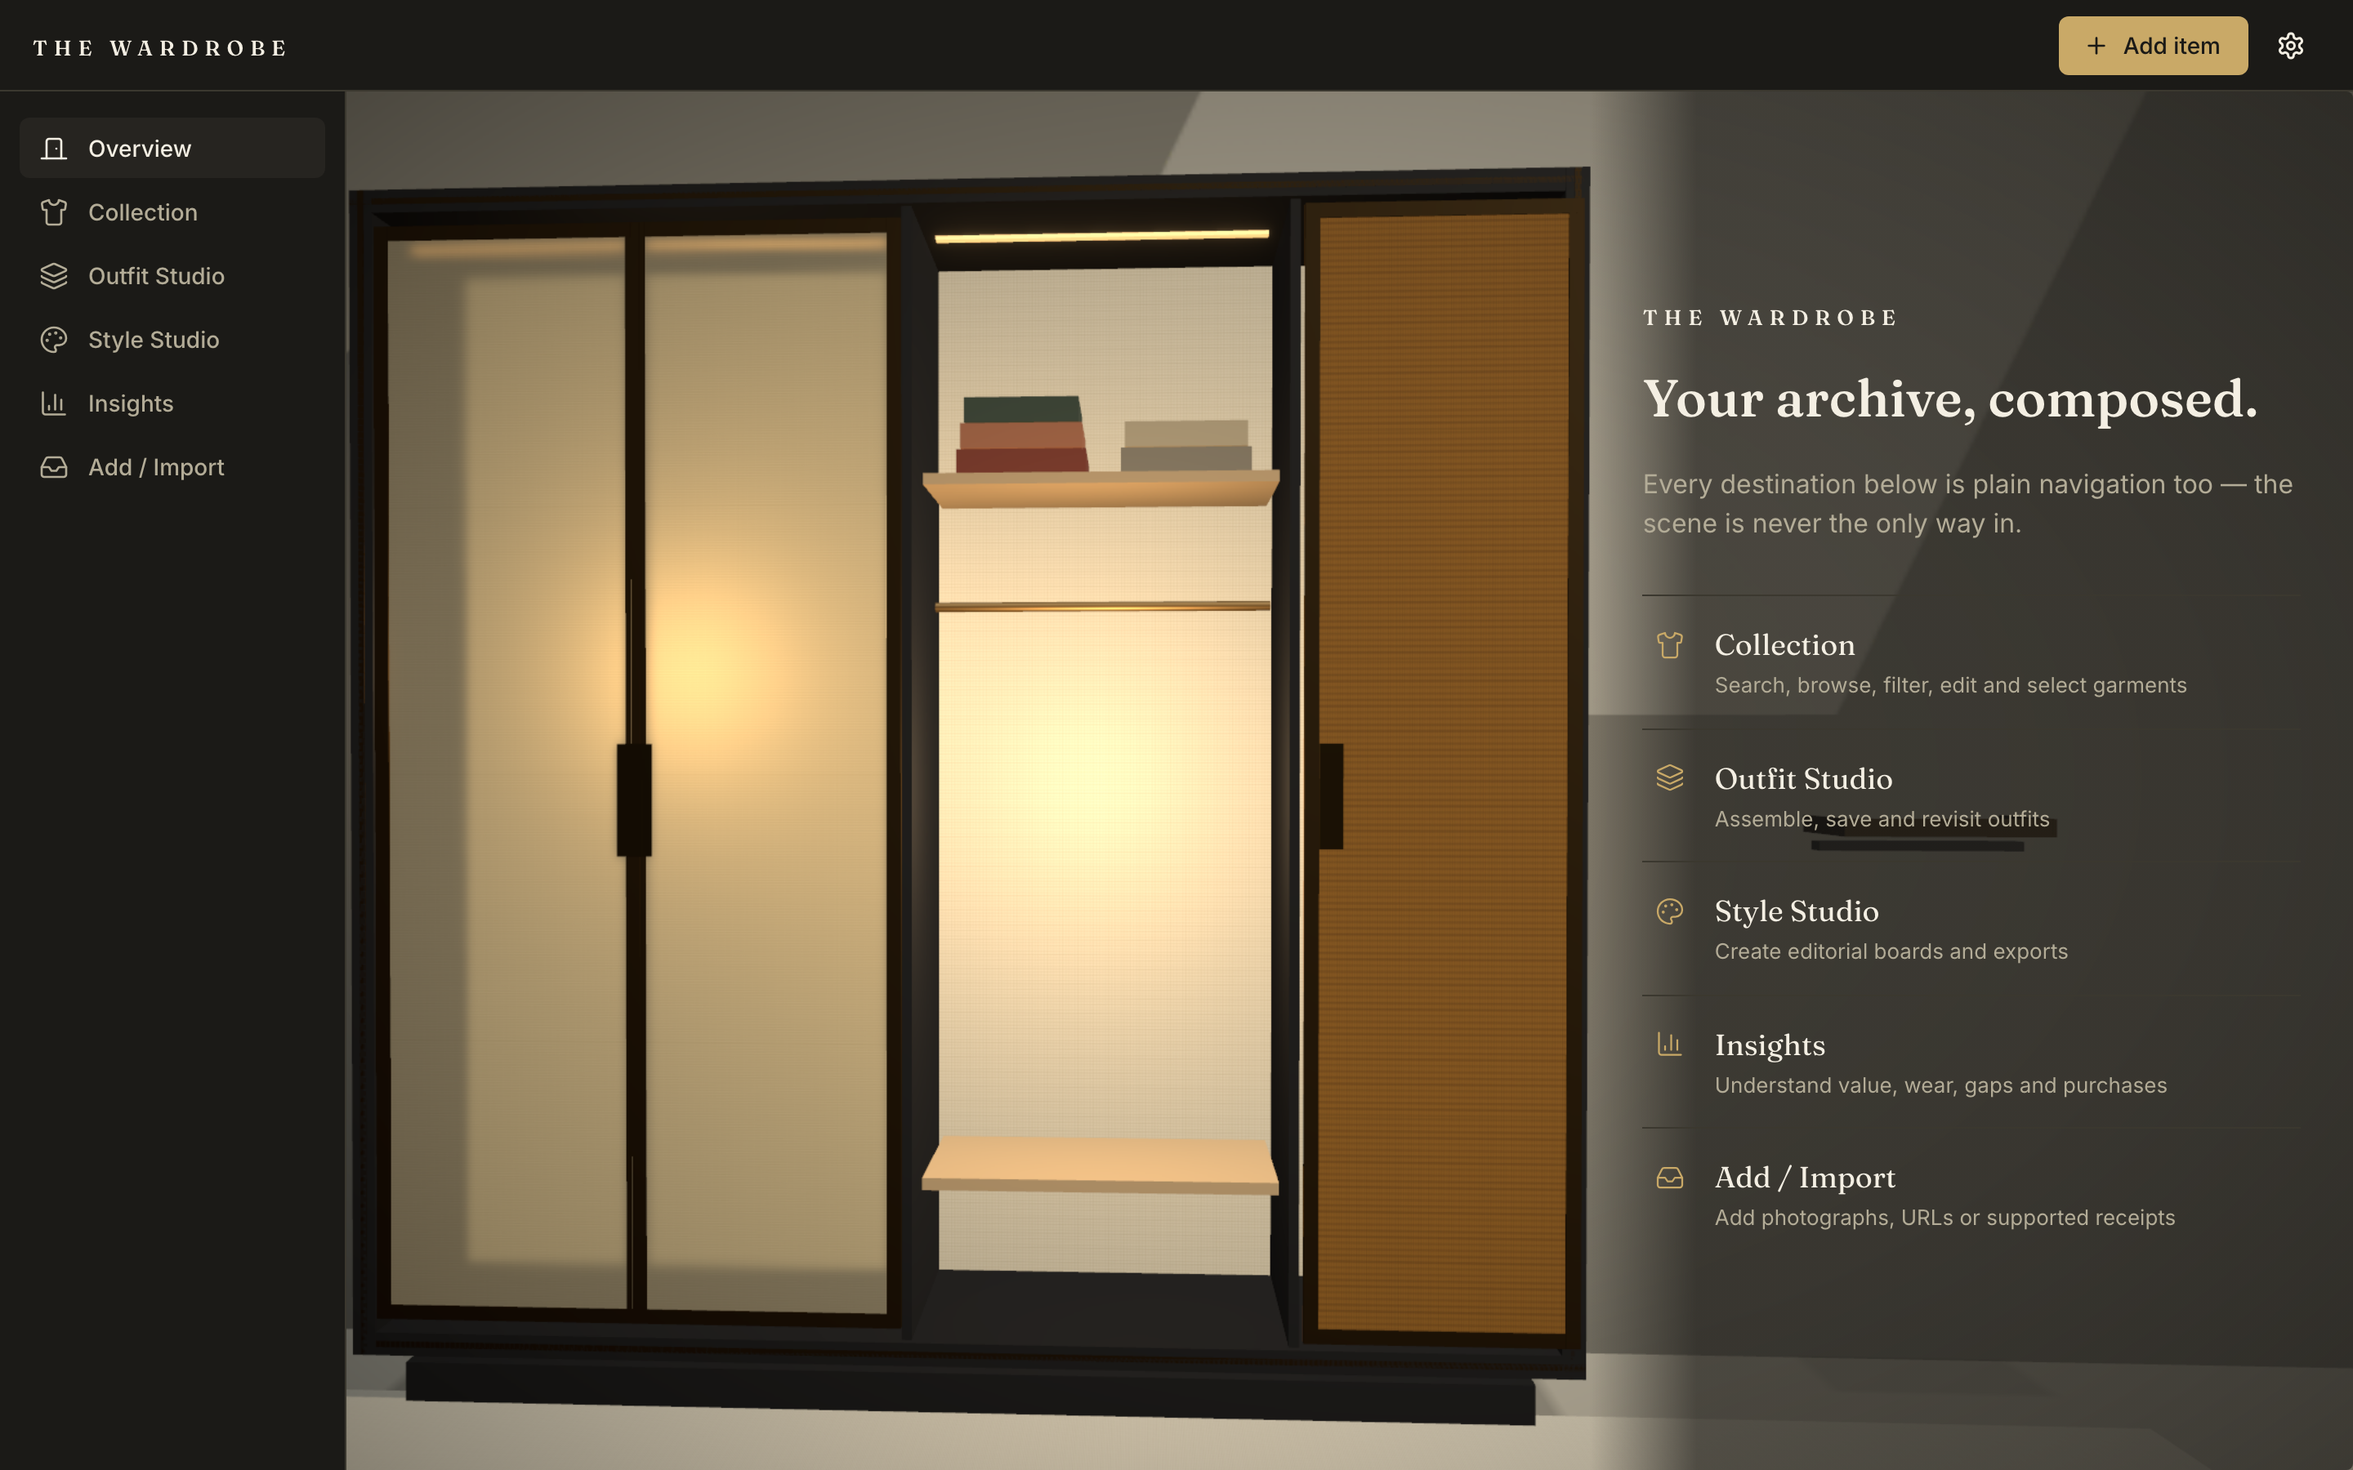
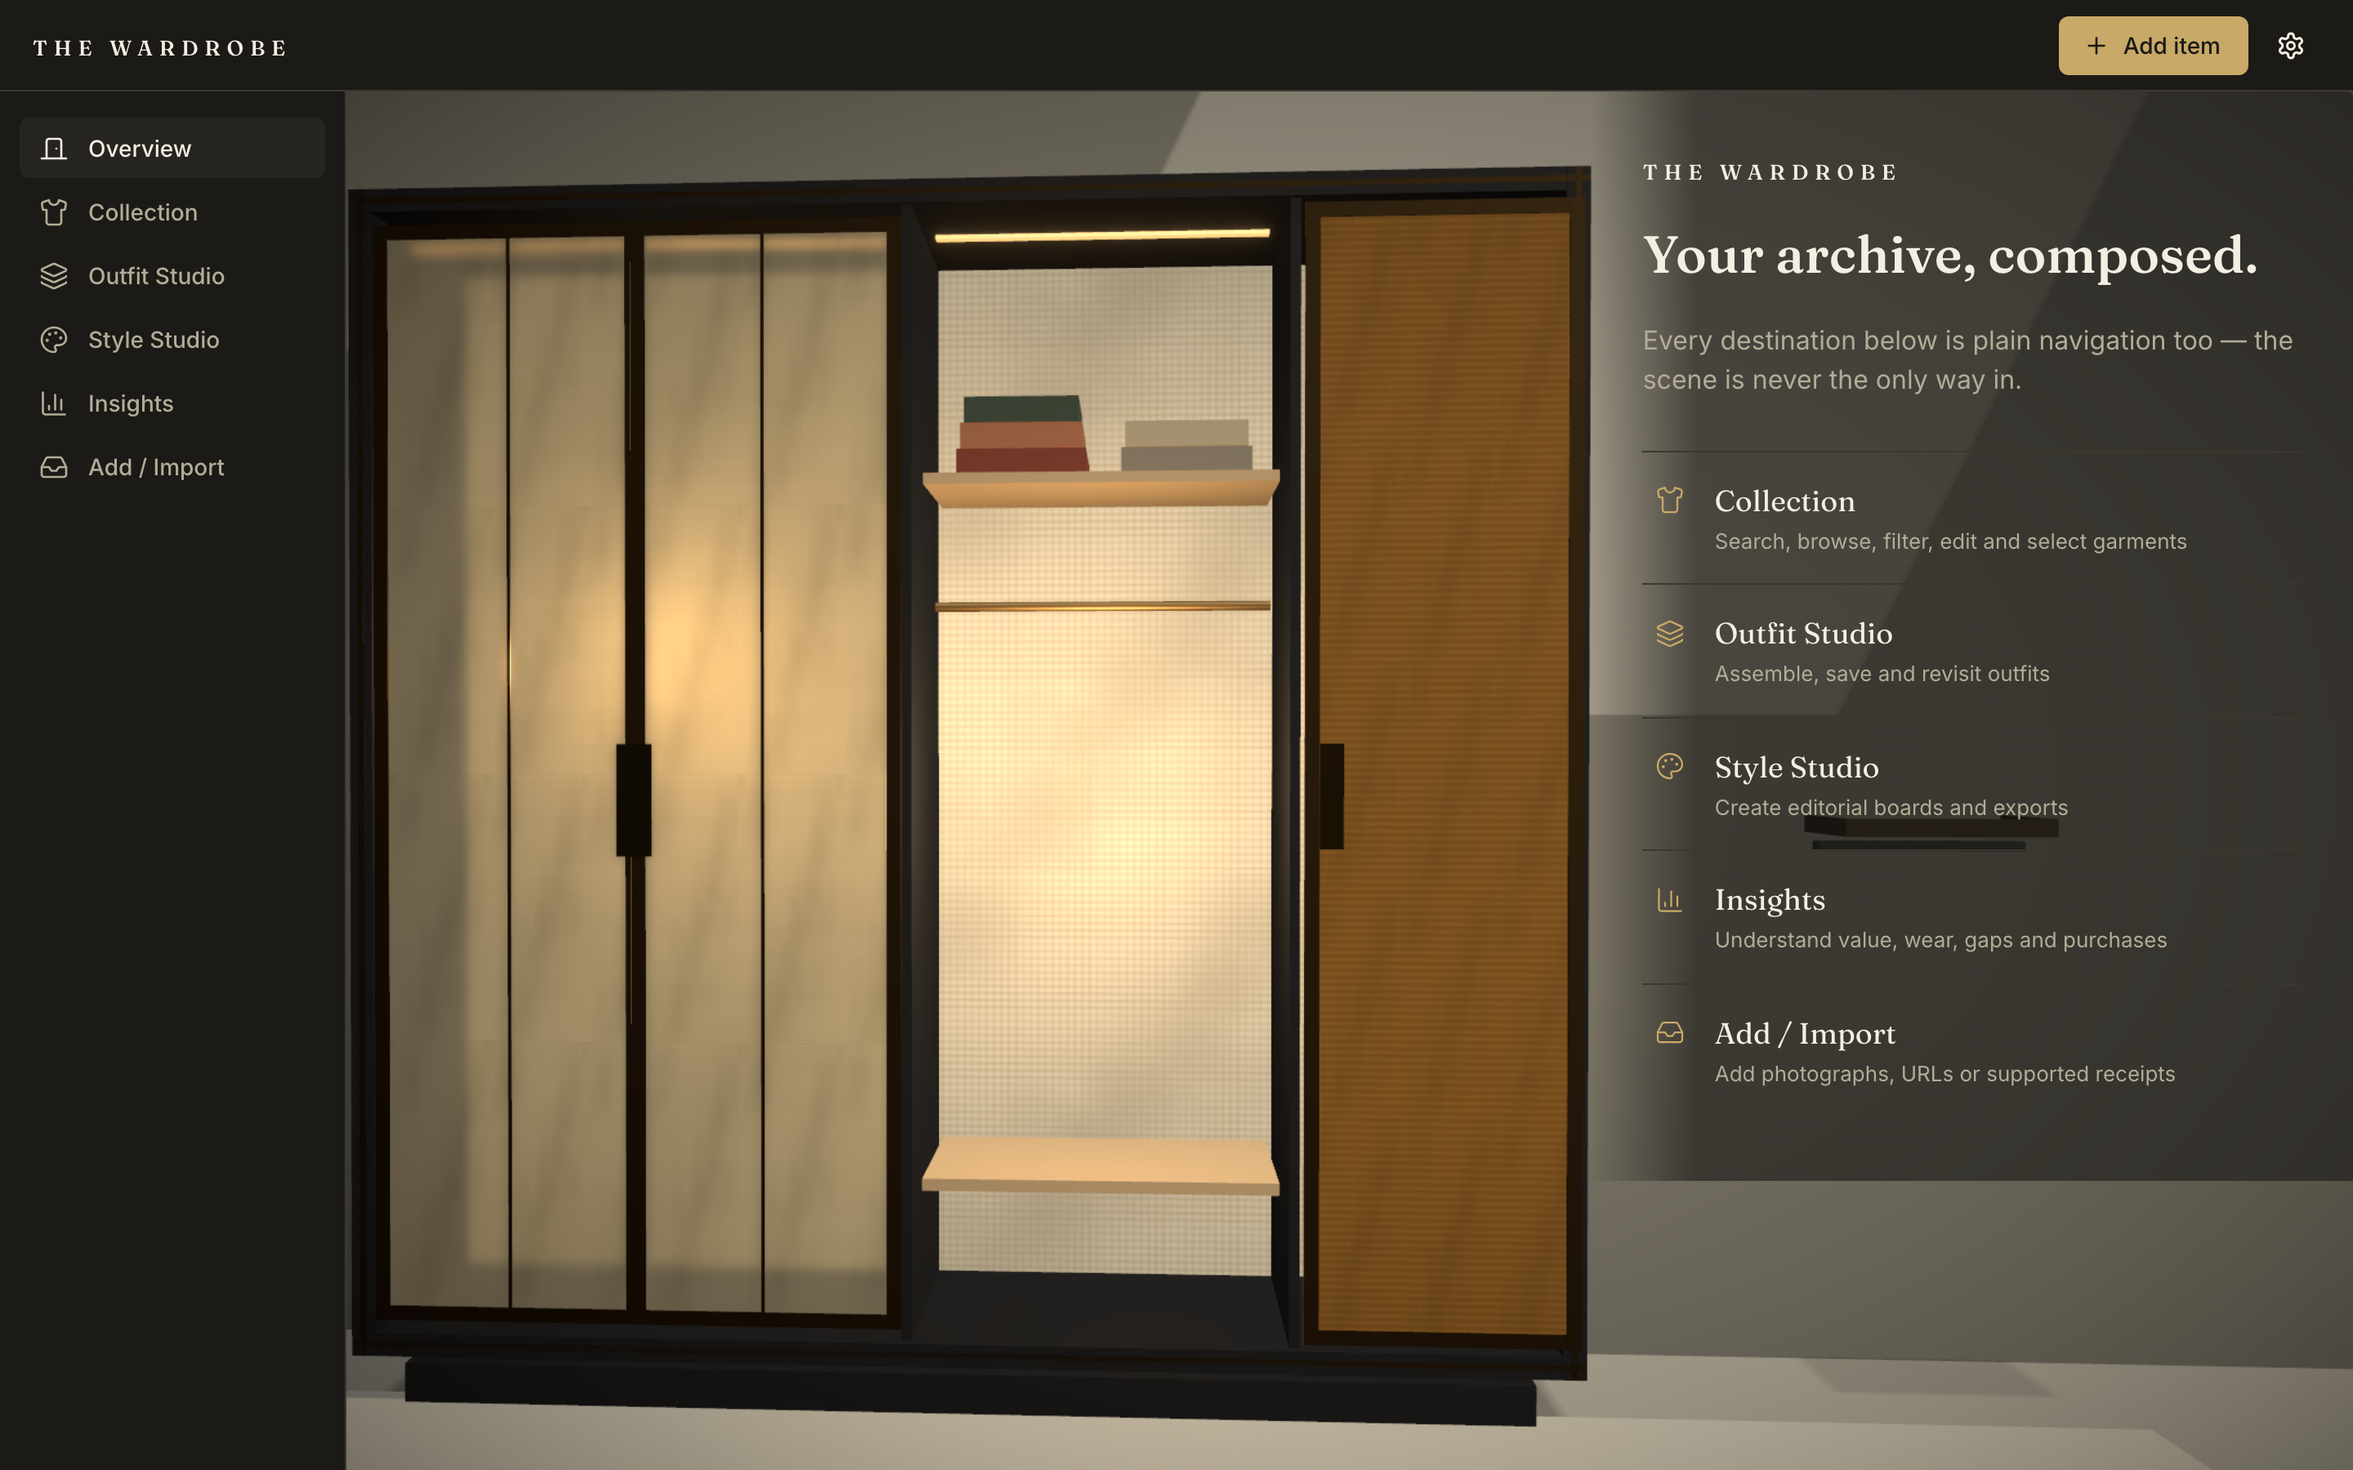
style(revamp): look + motion pass — richer weaves, readable beats, poppier arrivals
Look: two-scale mottled linen (large fields never read flat), true woven
cane with shadowed holes, coarser bay lining, real deep-shadow ceiling
band above the lantern (both references have it), brighter pull plates
and mirror, stronger contact shadow, bloom 0.45 @ 0.9 with deeper
vignette; leaf mid-seam bead matches the reference's two-panel leaves

Motion: entry beats now read as choreography — glow blooms first, linen
leaf slides with a confident 5% settle, cane follows on its own beat
(0.32 s); camera overshoot 2% → 2.8% and snappier dolly (1.0 s);
garments get a staggered decaying brush as the camera arrives; 2D
workspaces glide in with a 340 ms settle keyed to route changes (dead
under reduced motion)

Infra: e2e suites set wardrobe:scene-off (DEV-only escape in SceneMount)
— functional tests assert DOM, not pixels; rendering the transmission
scene in four parallel browsers starved the machine (15/15 now in 30 s)

diff --git a/src/revamp/scene/lantern/materials.ts b/src/revamp/scene/lantern/materials.ts
@@ -9,7 +9,7 @@ import { useScene } from '../../stores/scene'
  * transmission for an emissive fake at the same read.
  */
 
-function weaveCanvas(base: string, thread: string, cell = 6, jitter = 10): THREE.CanvasTexture {
+function weaveCanvas(base: string, thread: string, cell = 6, jitter = 10, mottle = 0): THREE.CanvasTexture {
   const size = 512
   const canvas = document.createElement('canvas')
   canvas.width = size
@@ -17,14 +17,40 @@ function weaveCanvas(base: string, thread: string, cell = 6, jitter = 10): THREE
   const ctx = canvas.getContext('2d')!
   ctx.fillStyle = base
   ctx.fillRect(0, 0, size, size)
+  // low-frequency mottling so large fields never read flat
+  if (mottle > 0) {
+    for (let i = 0; i < 26; i++) {
+      const cx = ((i * 7919) % size)
+      const cy = ((i * 104729) % size)
+      const r = 60 + ((i * 31) % 90)
+      const g = ctx.createRadialGradient(cx, cy, 0, cx, cy, r)
+      const dark = i % 2 === 0
+      g.addColorStop(0, dark ? `rgba(70,60,40,${mottle})` : `rgba(255,250,235,${mottle})`)
+      g.addColorStop(1, 'rgba(0,0,0,0)')
+      ctx.fillStyle = g
+      ctx.fillRect(0, 0, size, size)
+    }
+  }
   ctx.fillStyle = thread
   for (let y = 0; y < size; y += cell) {
-    ctx.globalAlpha = 0.22 + (((y * 7919) % jitter) / jitter) * 0.18
-    ctx.fillRect(0, y, size, Math.max(1, cell * 0.4))
+    ctx.globalAlpha = 0.26 + (((y * 7919) % jitter) / jitter) * 0.2
+    ctx.fillRect(0, y, size, Math.max(1, cell * 0.42))
   }
   for (let x = 0; x < size; x += cell) {
-    ctx.globalAlpha = 0.16 + (((x * 104729) % jitter) / jitter) * 0.14
-    ctx.fillRect(x, 0, Math.max(1, cell * 0.4), size)
+    ctx.globalAlpha = 0.2 + (((x * 104729) % jitter) / jitter) * 0.16
+    ctx.fillRect(x, 0, Math.max(1, cell * 0.42), size)
+  }
+  // woven cane reads as a grid of shadowed holes
+  if (cell >= 12) {
+    ctx.globalAlpha = 0.5
+    ctx.fillStyle = 'rgba(40,28,10,0.55)'
+    for (let y = cell / 2; y < size; y += cell) {
+      for (let x = cell / 2; x < size; x += cell) {
+        ctx.beginPath()
+        ctx.arc(x, y, cell * 0.16, 0, Math.PI * 2)
+        ctx.fill()
+      }
+    }
   }
   ctx.globalAlpha = 1
   const tex = new THREE.CanvasTexture(canvas)
@@ -37,12 +63,12 @@ function weaveCanvas(base: string, thread: string, cell = 6, jitter = 10): THREE
 export function useLanternMaterials() {
   const quality = useScene((s) => s.quality)
   return useMemo(() => {
-    const linenTex = weaveCanvas('#efe7d3', '#c9bfa4', 5)
+    const linenTex = weaveCanvas('#efe7d3', '#c9bfa4', 5, 10, 0.05)
     linenTex.repeat.set(2.5, 4)
-    const caneTex = weaveCanvas('#cfa963', '#7e6330', 14, 8)
+    const caneTex = weaveCanvas('#d4ad64', '#7e6330', 16, 8, 0.04)
     caneTex.repeat.set(3, 5)
-    const wallLinenTex = weaveCanvas('#e6dec9', '#c4b99c', 6)
-    wallLinenTex.repeat.set(4, 4)
+    const wallLinenTex = weaveCanvas('#e8dfc9', '#bfb294', 9, 10, 0.06)
+    wallLinenTex.repeat.set(2.5, 2.5)
     const rugTex = weaveCanvas('#d6d1c2', '#b5ae9a', 4)
     rugTex.repeat.set(10, 6)
 
@@ -81,10 +107,10 @@ export function useLanternMaterials() {
         envMapIntensity: 1.4,
       }),
       pull: new THREE.MeshPhysicalMaterial({
-        color: '#d8bd84',
+        color: '#e2ca92',
         metalness: 1,
-        roughness: 0.18,
-        envMapIntensity: 2.6,
+        roughness: 0.14,
+        envMapIntensity: 3.2,
       }),
       brassBright: new THREE.MeshPhysicalMaterial({
         color: '#c9a967',
@@ -94,7 +120,7 @@ export function useLanternMaterials() {
       }),
       oak: new THREE.MeshStandardMaterial({ color: '#c9ab81', roughness: 0.85, envMapIntensity: 0.4 }),
       felt: new THREE.MeshStandardMaterial({ color: '#2e4636', roughness: 0.98 }),
-      mirror: new THREE.MeshPhysicalMaterial({ color: '#c3c9cd', metalness: 1, roughness: 0.04, envMapIntensity: 2.4 }),
+      mirror: new THREE.MeshPhysicalMaterial({ color: '#d6dde2', metalness: 1, roughness: 0.03, envMapIntensity: 3.0 }),
       glowStrip: new THREE.MeshStandardMaterial({ color: '#ffe2b0', emissive: '#ffc478', emissiveIntensity: 1.1 }),
       floor: new THREE.MeshStandardMaterial({ color: '#b3aea0', roughness: 0.9 }),
       wall: new THREE.MeshStandardMaterial({ color: '#8a887f', roughness: 0.96 }),

diff --git a/src/revamp/scene/lantern/Lantern.tsx b/src/revamp/scene/lantern/Lantern.tsx
@@ -36,7 +36,7 @@ export function Lantern() {
       if (s.fullMotion) {
         const kR = clamp01((t - s.tDoors) / LAN.doorDur)
         if (rightLeaf.current) {
-          rightLeaf.current.position.x = MOD.aRight - 0.01 - settle(kR, 0.02) * LAN.doorSlide
+          rightLeaf.current.position.x = MOD.aRight - 0.01 - settle(kR, 0.05) * LAN.doorSlide
           // the moving leaf rides just proud of the static one
           rightLeaf.current.position.z = FRONT_Z - 0.02 + easeCamera(clamp01(kR * 3)) * 0.02
         }
@@ -115,6 +115,10 @@ export function Lantern() {
         {/* the glowing linen field */}
         <mesh material={m.linenPanel} position={[cx, 0, 0]}>
           <boxGeometry args={[leafW - fr * 2, panelH - fr * 2, 0.012]} />
+        </mesh>
+        {/* mid seam — each leaf reads as two woven panels like the reference */}
+        <mesh material={m.brass} position={[cx, 0, 0.004]}>
+          <boxGeometry args={[0.006, panelH - fr * 2, 0.014]} />
         </mesh>
         {/* pull plate at the meeting stile */}
         <mesh material={m.pull} position={[(leafW - fr) * dir, -0.05, 0.02]}>

diff --git a/src/revamp/scene/garments/RailGarments.tsx b/src/revamp/scene/garments/RailGarments.tsx
@@ -24,8 +24,18 @@ function GarmentPlane({ url, x, phase }: { url: string; x: number; phase: number
   useFrame(() => {
     if (!swing.current) return
     const s = useScene.getState()
+    if (!s.fullMotion) {
+      swing.current.rotation.z = 0
+      return
+    }
     const t = performance.now() / 1000
-    swing.current.rotation.z = s.fullMotion ? Math.sin((t * Math.PI * 2) / 5.2 + phase) * 0.014 : 0
+    // idle sway + a staggered, decaying brush as the camera arrives — the
+    // wardrobe acknowledges you (poppy, never restless)
+    const idle = Math.sin((t * Math.PI * 2) / 5.2 + phase) * 0.014
+    const since = t - s.tStation - phase * 0.06
+    const impulse =
+      since > 0 && since < 2.4 ? Math.exp(-since * 2.2) * Math.sin(since * 9 + phase) * 0.05 : 0
+    swing.current.rotation.z = idle + impulse
   })
 
   return (

diff --git a/src/revamp/scene/Experience.tsx b/src/revamp/scene/Experience.tsx
@@ -49,13 +49,13 @@ export function Experience() {
       </Suspense>
       <RailGarments />
 
-      <ContactShadows position={[0, 0.004, 1.1]} opacity={0.38} blur={2.6} scale={8} frames={40} resolution={256} far={2.2} />
+      <ContactShadows position={[0, 0.004, 1.1]} opacity={0.48} blur={2.6} scale={8} frames={40} resolution={256} far={2.2} />
       <CameraRig />
 
       {quality !== 'reduced' && (
         <EffectComposer multisampling={2}>
-          <Bloom intensity={0.32} luminanceThreshold={0.92} luminanceSmoothing={0.25} mipmapBlur />
-          <Vignette eskil={false} offset={0.18} darkness={0.55} />
+          <Bloom intensity={0.45} luminanceThreshold={0.9} luminanceSmoothing={0.22} mipmapBlur />
+          <Vignette eskil={false} offset={0.16} darkness={0.62} />
         </EffectComposer>
       )}
     </>

diff --git a/src/revamp/scene/stations.ts b/src/revamp/scene/stations.ts
@@ -66,10 +66,10 @@ export function transitionFor(from: StationId, to: StationId): TransitionSpec {
   const fromDoor = STATIONS[from].onDoor
   const toDoor = STATIONS[to].onDoor
   if (fromDoor && toDoor) return { move: 'arc', dur: 1.35, delay: 0 }
-  if (fromDoor || toDoor) return { move: 'arc', dur: 1.2, delay: 0 }
+  if (fromDoor || toDoor) return { move: 'arc', dur: 1.15, delay: 0 }
   if (to === 'import' || from === 'import') return { move: 'pedestal', dur: 0.95, delay: 0 }
   if (to === 'overview' || from === 'overview') return { move: 'pull', dur: 1.3, delay: 0 }
-  return { move: 'dolly', dur: 1.1, delay: 0 }
+  return { move: 'dolly', dur: 1.0, delay: 0 }
 }
 
 /** Fraction of the content area the scene composes for when the workspace is open. */

diff --git a/src/revamp/scene/SceneMount.tsx b/src/revamp/scene/SceneMount.tsx
@@ -6,6 +6,9 @@ const SceneCanvas = lazy(() => import('./SceneCanvas'))
 
 function webglSupported(): boolean {
   if (new URLSearchParams(window.location.search).get('scene') === 'off') return false
+  // e2e opt-out: functional suites assert DOM, not pixels — rendering the
+  // transmission scene in four parallel browsers starves the test machine
+  if (import.meta.env.DEV && sessionStorage.getItem('wardrobe:scene-off') === '1') return false
   try {
     const canvas = document.createElement('canvas')
     return !!(canvas.getContext('webgl2') ?? canvas.getContext('webgl'))

diff --git a/tests/e2e/revamp.settings.spec.ts b/tests/e2e/revamp.settings.spec.ts
@@ -3,7 +3,11 @@ import { expect, test } from '@playwright/test'
 /** Phase 9: profile persistence, data export, sign-out. */
 
 test.beforeEach(async ({ context }) => {
-  await context.addInitScript(() => sessionStorage.setItem('wardrobe:revamp', '1'))
+  await context.addInitScript(() => {
+    sessionStorage.setItem('wardrobe:revamp', '1')
+    // functional suite: skip 3D rendering (DOM assertions only)
+    sessionStorage.setItem('wardrobe:scene-off', '1')
+  })
 })
 
 test('settings: profile saves and persists, export downloads, sign-out guards', async ({ page }) => {

diff --git a/tests/e2e/revamp.studios.spec.ts b/tests/e2e/revamp.studios.spec.ts
@@ -3,7 +3,11 @@ import { expect, test, type Page } from '@playwright/test'
 /** Phases 6 + 8: outfit persistence, duplication, wear logging, honest insights. */
 
 test.beforeEach(async ({ context }) => {
-  await context.addInitScript(() => sessionStorage.setItem('wardrobe:revamp', '1'))
+  await context.addInitScript(() => {
+    sessionStorage.setItem('wardrobe:revamp', '1')
+    // functional suite: skip 3D rendering (DOM assertions only)
+    sessionStorage.setItem('wardrobe:scene-off', '1')
+  })
 })
 
 async function bootstrapWithGarment(page: Page, name: string) {

diff --git a/tests/e2e/revamp.boards.spec.ts b/tests/e2e/revamp.boards.spec.ts
@@ -3,7 +3,11 @@ import { expect, test, type Page } from '@playwright/test'
 /** Phase 7: board auto-layout, editing with autosave, reopen fidelity, export. */
 
 test.beforeEach(async ({ context }) => {
-  await context.addInitScript(() => sessionStorage.setItem('wardrobe:revamp', '1'))
+  await context.addInitScript(() => {
+    sessionStorage.setItem('wardrobe:revamp', '1')
+    // functional suite: skip 3D rendering (DOM assertions only)
+    sessionStorage.setItem('wardrobe:scene-off', '1')
+  })
 })
 
 declare global {

diff --git a/src/revamp/scene/lantern/Surroundings.tsx b/src/revamp/scene/lantern/Surroundings.tsx
@@ -52,6 +52,12 @@ export function Surroundings() {
         <planeGeometry args={[16, 5.6]} />
       </mesh>
 
+      {/* deep ceiling shadow band — the lantern glows against it (refs) */}
+      <mesh position={[0, 4.45, 0.008]}>
+        <planeGeometry args={[16, 2.4]} />
+        <meshBasicMaterial color="#141311" transparent opacity={0.82} depthWrite={false} />
+      </mesh>
+
       {/* raking daylight patch on the wall */}
       <mesh position={[1.3, 2.55, 0.005]}>
         <planeGeometry args={[4.6, 2.3]} />

diff --git a/tests/e2e/revamp.slice.spec.ts b/tests/e2e/revamp.slice.spec.ts
@@ -7,7 +7,11 @@ import { expect, test, type Page } from '@playwright/test'
  */
 
 test.beforeEach(async ({ context }) => {
-  await context.addInitScript(() => sessionStorage.setItem('wardrobe:revamp', '1'))
+  await context.addInitScript(() => {
+    sessionStorage.setItem('wardrobe:revamp', '1')
+    // functional suite: skip 3D rendering (DOM assertions only)
+    sessionStorage.setItem('wardrobe:scene-off', '1')
+  })
 })
 
 async function signInAndOnboard(page: Page) {

diff --git a/src/revamp/app/layouts/AppShell.module.css b/src/revamp/app/layouts/AppShell.module.css
@@ -136,6 +136,29 @@
   }
 }
 
+/* —— route entrance: the 2D answer to the camera settle —— */
+.routeIn {
+  min-height: 100%;
+  animation: routeIn 340ms var(--ease-ui);
+}
+
+@keyframes routeIn {
+  from {
+    opacity: 0;
+    transform: translateY(10px);
+  }
+  60% {
+    opacity: 1;
+  }
+  80% {
+    transform: translateY(-1.5px);
+  }
+  to {
+    opacity: 1;
+    transform: none;
+  }
+}
+
 /* —— system states —— */
 .offline {
   position: sticky;
